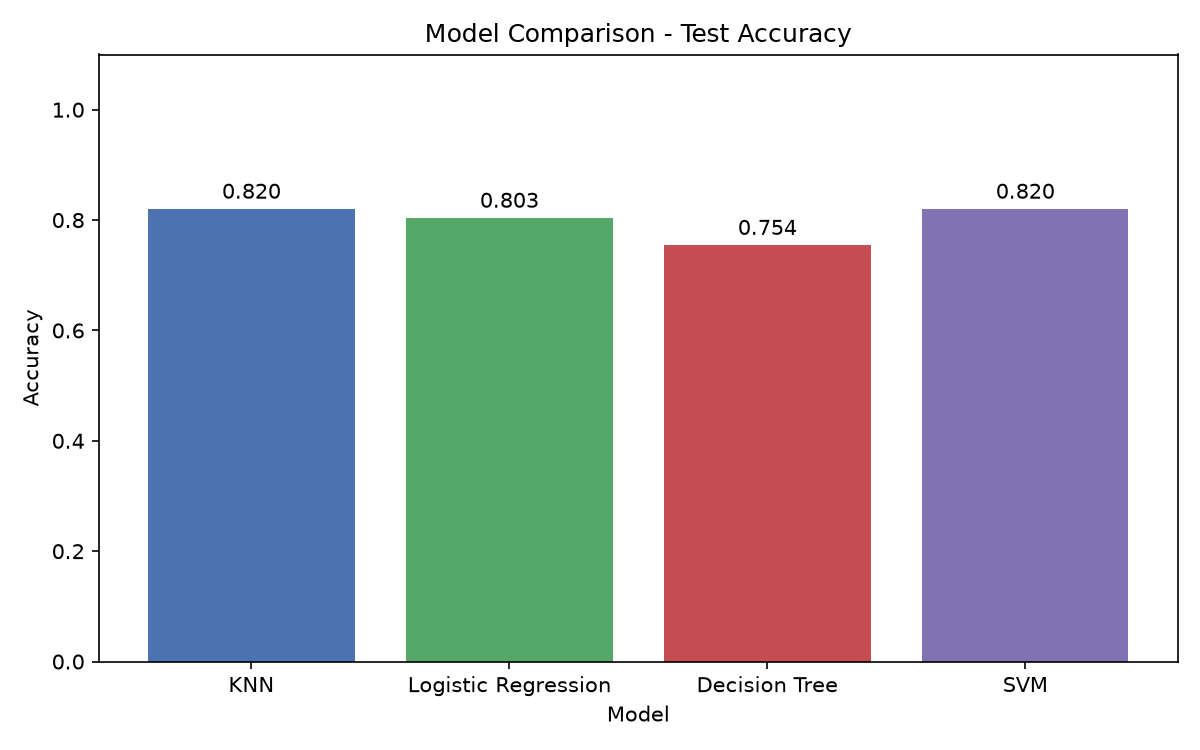
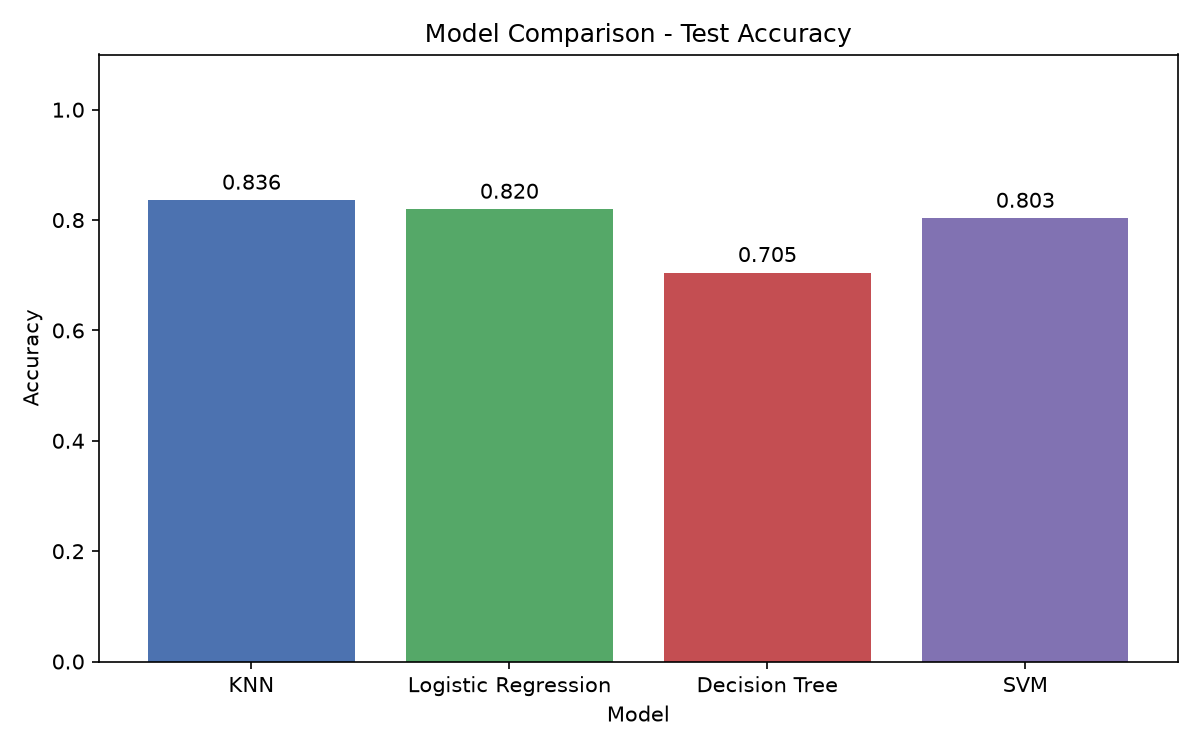
add new data to dataset

diff --git a/main.py b/main.py
@@ -175,8 +175,116 @@ def build_prediction_tab(parent):
               command=on_predict).grid(row=model_row + 1, column=0, columnspan=2, pady=(16, 0))
 
 
+# ===================== Add Patient to Dataset tab =====================
+def build_add_patient_tab(parent, app_state):
+    tk.Label(parent, text="Add Patient to Dataset", font=("Arial", 16, "bold")).grid(
+        row=0, column=0, columnspan=2, pady=(0, 4))
+    tk.Label(
+        parent,
+        text="Enter a newly observed patient and a confirmed target label to append it to heart.csv.",
+        font=("Arial", 10), fg="gray", wraplength=760,
+    ).grid(row=1, column=0, columnspan=2, pady=(0, 4))
+    tk.Label(
+        parent,
+        text="Use a known/confirmed label (0 or 1), not the model's prediction. Saving retrains all four models.",
+        font=("Arial", 9), fg="#8A4B08", wraplength=760,
+    ).grid(row=2, column=0, columnspan=2, pady=(0, 12))
+
+    fields = build_fields()
+    variables = {}
+    form = tk.Frame(parent)
+    form.grid(row=3, column=0, sticky="n", padx=(0, 25))
+
+    for row, (key, label, kind, options) in enumerate(fields):
+        tk.Label(form, text=label, font=("Arial", 10), anchor="w").grid(
+            row=row, column=0, sticky="w", pady=4)
+        variable = tk.StringVar()
+        if kind == "choice":
+            variable.set(label_for(options, DEFAULT_VALUES[key]))
+            widget = ttk.Combobox(
+                form, textvariable=variable, values=list(options), state="readonly", width=30
+            )
+        else:
+            variable.set(str(DEFAULT_VALUES[key]))
+            widget = ttk.Entry(form, textvariable=variable, width=32)
+        widget.grid(row=row, column=1, padx=(12, 0), pady=4)
+        variables[key] = variable
+
+    target_row = len(fields)
+    tk.Label(form, text="Confirmed target label", font=("Arial", 10, "bold"), anchor="w").grid(
+        row=target_row, column=0, sticky="w", pady=(12, 4))
+    target_options = {
+        "0 - Low-risk class": 0,
+        "1 - High-risk class": 1,
+    }
+    target_var = tk.StringVar(value="0 - Low-risk class")
+    ttk.Combobox(
+        form, textvariable=target_var, values=list(target_options), state="readonly", width=30
+    ).grid(row=target_row, column=1, padx=(12, 0), pady=(12, 4))
+
+    status_var = tk.StringVar(value="No patient has been added in this session.")
+    tk.Label(parent, textvariable=status_var, font=("Arial", 9), fg="gray", wraplength=760).grid(
+        row=4, column=0, columnspan=2, sticky="w", pady=(12, 4))
+
+    def on_add_patient():
+        try:
+            patient = read_patient(fields, variables)
+        except ValueError as error:
+            messagebox.showerror("Invalid input", str(error))
+            return
+
+        target = target_options.get(target_var.get())
+        if target is None:
+            messagebox.showerror("Invalid target", "Please choose a valid target label.")
+            return
+
+        confirmed = messagebox.askyesno(
+            "Confirm new dataset row",
+            "Add this patient to heart.csv using the selected confirmed target label?\n\n"
+            "This changes the dataset and retrains all models. Make sure the label is known, "
+            "not generated by a model."
+        )
+        if not confirmed:
+            return
+
+        try:
+            new_count = Classification.add_patient_to_dataset(patient, target)
+        except Exception as error:
+            messagebox.showerror("Could not save patient", f"The dataset was not updated:\n{error}")
+            return
+
+        # The row is saved, so retrain from the updated CSV and refresh the comparison UI.
+        try:
+            new_benchmark = Classification.run_benchmark(verbose=False)
+        except Exception as error:
+            status_var.set(f"Patient row saved ({new_count} rows), but model retraining failed.")
+            messagebox.showwarning(
+                "Patient saved; retraining failed",
+                "The new row was saved to heart.csv, but the existing trained models remain in use. "
+                f"\n\nRetraining error:\n{error}"
+            )
+            return
+
+        app_state["benchmark"] = new_benchmark
+        refresh = app_state.get("refresh_comparison")
+        if refresh:
+            refresh()
+        status_var.set(f"Patient added successfully. heart.csv now contains {new_count} rows; all models were retrained.")
+        messagebox.showinfo(
+            "Patient added",
+            f"The new row was added to heart.csv.\nDataset rows: {new_count}\n\n"
+            "All four models and the comparison chart have been refreshed."
+        )
+
+    tk.Button(
+        form, text="Add Patient and Retrain Models", width=30, pady=7,
+        font=("Arial", 10, "bold"), command=on_add_patient
+    ).grid(row=target_row + 1, column=0, columnspan=2, pady=(16, 0))
+
+
 # ===================== Model comparison tab =====================
 def draw_accuracy_chart(chart, benchmark):
+    chart.delete("all")
     chart.create_text(CHART_WIDTH / 2, 18, text="Model Accuracy Comparison",
                       font=("Arial", 12, "bold"))
     for i, model_name in enumerate(Classification.MODEL_NAMES):
@@ -213,7 +321,7 @@ def show_model(benchmark, model_name, result_text, plot_frame):
     current_plot["canvas"] = canvas
 
 
-def build_comparison_tab(parent, benchmark, root):
+def build_comparison_tab(parent, app_state, root):
     left = tk.Frame(parent, padx=15, pady=15)
     left.grid(row=0, column=0, sticky="n")
     right = tk.Frame(parent, padx=15, pady=15)
@@ -222,17 +330,21 @@ def build_comparison_tab(parent, benchmark, root):
     chart = tk.Canvas(left, width=CHART_WIDTH, height=50 + 4 * ROW_GAP, bg="white",
                       highlightthickness=1, highlightbackground="#cccccc")
     chart.pack()
-    draw_accuracy_chart(chart, benchmark)
+    draw_accuracy_chart(chart, app_state["benchmark"])
 
     tk.Label(left, text="MODEL COMPARISON", font=("Arial", 12, "bold")).pack(pady=(20, 8))
 
     result_text = tk.Text(right, width=42, height=14, font=("Courier", 10), state="disabled")
     plot_frame = tk.Frame(right)
+    selected_model = {"name": None}
+
+    def choose_model(model_name):
+        selected_model["name"] = model_name
+        show_model(app_state["benchmark"], model_name, result_text, plot_frame)
 
     for label, model_name in CHOICES:
         tk.Button(left, text=label, width=34, pady=4,
-                  command=lambda name=model_name: show_model(benchmark, name, result_text, plot_frame)
-                  ).pack(pady=3)
+                  command=lambda name=model_name: choose_model(name)).pack(pady=3)
     tk.Button(left, text="5. Exit", width=34, pady=4, command=root.destroy).pack(pady=3)
 
     result_text.pack()
@@ -240,6 +352,18 @@ def build_comparison_tab(parent, benchmark, root):
     result_text.config(state="normal")
     result_text.insert(tk.END, "Choose a model on the left\nto see its results.")
     result_text.config(state="disabled")
+
+    def refresh_comparison():
+        draw_accuracy_chart(chart, app_state["benchmark"])
+        if selected_model["name"] is not None:
+            show_model(app_state["benchmark"], selected_model["name"], result_text, plot_frame)
+        else:
+            result_text.config(state="normal")
+            result_text.delete("1.0", tk.END)
+            result_text.insert(tk.END, "Choose a model on the left\nto see its results.")
+            result_text.config(state="disabled")
+
+    app_state["refresh_comparison"] = refresh_comparison
 
 
 def main():
@@ -259,13 +383,17 @@ def main():
     notebook = ttk.Notebook(root)
     notebook.pack(fill="both", expand=True)
 
+    app_state = {"benchmark": benchmark}
     prediction_tab = tk.Frame(notebook, padx=20, pady=15)
     comparison_tab = tk.Frame(notebook)
+    add_patient_tab = tk.Frame(notebook, padx=20, pady=15)
     notebook.add(prediction_tab, text="New Patient Prediction")  # first tab = opens first
     notebook.add(comparison_tab, text="Model Comparison")
+    notebook.add(add_patient_tab, text="Add Patient to Dataset")
 
     build_prediction_tab(prediction_tab)
-    build_comparison_tab(comparison_tab, benchmark, root)
+    build_comparison_tab(comparison_tab, app_state, root)
+    build_add_patient_tab(add_patient_tab, app_state)
 
     root.deiconify()
     root.mainloop()

diff --git a/Classification.py b/Classification.py
@@ -67,6 +67,82 @@ def load_data():
     return df
 
 
+# ===== Add a labelled patient to the CSV dataset =====
+def add_patient_to_dataset(patient_data, target):
+    """Append a confirmed, labelled patient row while preserving heart.csv's schema.
+
+    The project dataset commonly uses original names such as ``age``, ``exng``,
+    ``caa``, ``restecg``, ``thalachh`` and ``output``. The models use the
+    normalized names in FEATURE_COLUMNS, so this function maps values back to
+    whichever matching column names are already present in the CSV. Unused
+    source columns are left blank for the new row; they are not model features.
+    """
+    if not isinstance(patient_data, dict):
+        raise TypeError("patient_data must be a dictionary.")
+
+    missing = [name for name in FEATURE_COLUMNS if name not in patient_data]
+    if missing:
+        raise ValueError(f"Missing patient value(s): {missing}")
+
+    try:
+        target = int(target)
+    except (TypeError, ValueError):
+        raise ValueError("target must be 0 (Low-risk class) or 1 (High-risk class).") from None
+    if target not in TARGET_MEANINGS:
+        raise ValueError("target must be 0 (Low-risk class) or 1 (High-risk class).")
+
+    cleaned_values = {}
+    for name in FEATURE_COLUMNS:
+        try:
+            value = float(patient_data[name])
+        except (TypeError, ValueError):
+            raise ValueError(f"'{name}' must be numeric.") from None
+        if not np.isfinite(value):
+            raise ValueError(f"'{name}' must be a finite number.")
+        cleaned_values[name] = int(value) if value.is_integer() else value
+
+    if not DATA_PATH.exists():
+        raise FileNotFoundError(f"Dataset not found: {DATA_PATH}")
+
+    raw_df = pd.read_csv(DATA_PATH)
+    if raw_df.empty or len(raw_df.columns) == 0:
+        raise ValueError("heart.csv is empty or has no header row.")
+
+    # Normalize column names only for matching. Keep the original CSV headers intact.
+    normalized_to_raw = {}
+    for raw_column in raw_df.columns:
+        stripped_name = str(raw_column).strip()
+        normalized_name = COLUMN_RENAMES.get(stripped_name.lower(), stripped_name)
+        normalized_to_raw[normalized_name] = raw_column
+
+    missing_columns = [name for name in FEATURE_COLUMNS + ["target"] if name not in normalized_to_raw]
+    if missing_columns:
+        raise ValueError(
+            f"heart.csv is missing expected column(s): {missing_columns}. "
+            f"Columns found: {list(raw_df.columns)}"
+        )
+
+    # Populate the known features/label. Keep any other original dataset columns,
+    # assigning missing values to those fields because this project doesn't collect them.
+    new_row = {column: np.nan for column in raw_df.columns}
+    for name, value in cleaned_values.items():
+        new_row[normalized_to_raw[name]] = value
+    new_row[normalized_to_raw["target"]] = target
+
+    updated_df = pd.concat([raw_df, pd.DataFrame([new_row], columns=raw_df.columns)], ignore_index=True)
+
+    # Replace through a temporary sibling file so a failed write doesn't truncate heart.csv.
+    temp_path = DATA_PATH.with_name(f"{DATA_PATH.stem}.tmp{DATA_PATH.suffix}")
+    try:
+        updated_df.to_csv(temp_path, index=False)
+        temp_path.replace(DATA_PATH)
+    finally:
+        if temp_path.exists():
+            temp_path.unlink()
+
+    return len(updated_df)
+
+
 def inspect_data(df):
     target_counts = df["target"].value_counts().sort_index()
     print("========== DATASET INSPECTION ==========")

diff --git a/readme.md b/readme.md
@@ -1,17 +1,17 @@
 # Heart Disease Classification ❤
 
-A beginner-friendly Machine Learning project that predicts heart disease risk classes for new patients and compares four classification algorithms.
+A beginner-friendly Machine Learning project that predicts heart disease risk classes and compares four classification algorithms.
 
 ## 🖥 GUI Preview
 
 ![Application GUI](assets/gui.png)
 
-## 🩺 Patient Prediction
+## 🩺 Patient Prediction & Dataset Management
 
-Enter a patient's health data, select a trained model, and predict the patient's risk class:
-
-- `0` — Low risk
-- `1` — High risk
+- Predict patient risk: `0` (Low Risk) or `1` (High Risk).
+- Add new patients directly through the GUI and save records to `heart.csv`.
+- Select the verified class label (`0` or `1`) for each new patient.
+- Automatically retrain all four models and update performance comparisons.
 
 ## 📊 Model Comparison
 
@@ -32,24 +32,10 @@ Enter a patient's health data, select a trained model, and predict the patient's
 
 Models are evaluated using Accuracy, Precision, Recall, F1 Score, Log Loss, and Confusion Matrices.
 
-## 🤖 Algorithms
-
-- K-Nearest Neighbors (KNN)
-- Logistic Regression
-- Decision Tree
-- Support Vector Machine (SVM)
-
 ## ⚙ Installation & Usage
-
-Install the required libraries:
 
 ```bash
 pip install pandas numpy matplotlib scikit-learn
-```
-
-Run the application:
-
-```bash
 python main.py
 ```
 
